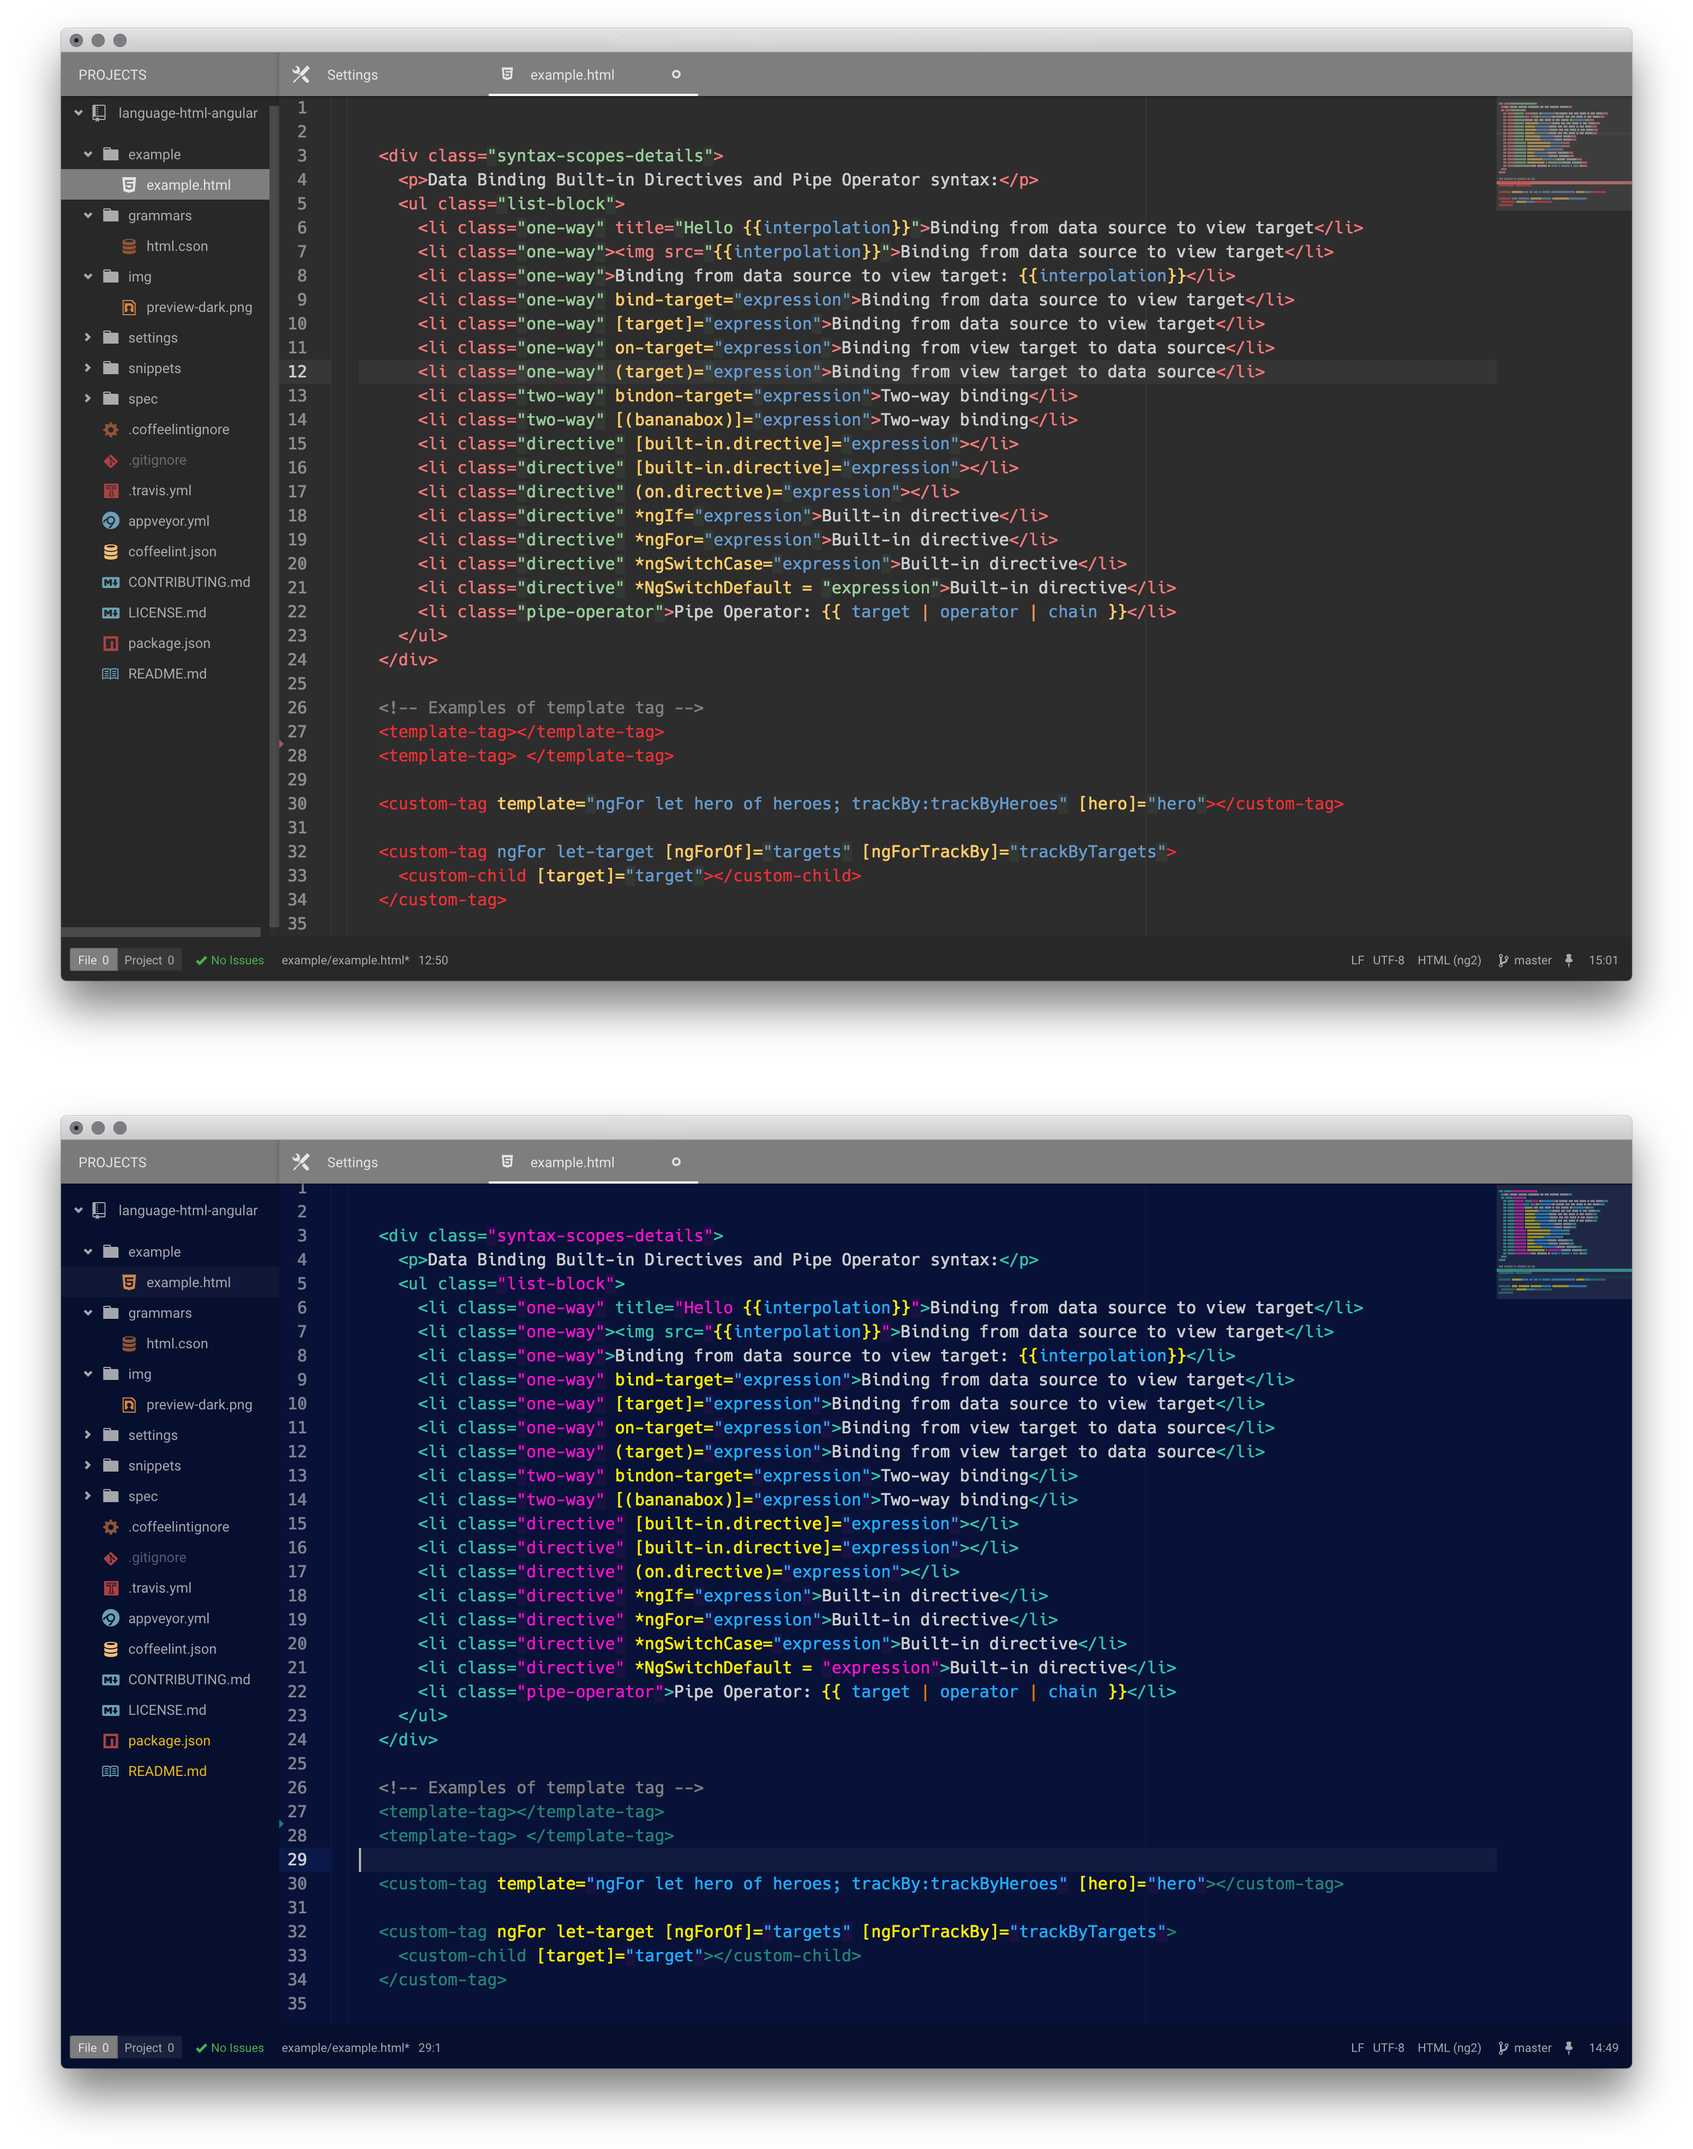
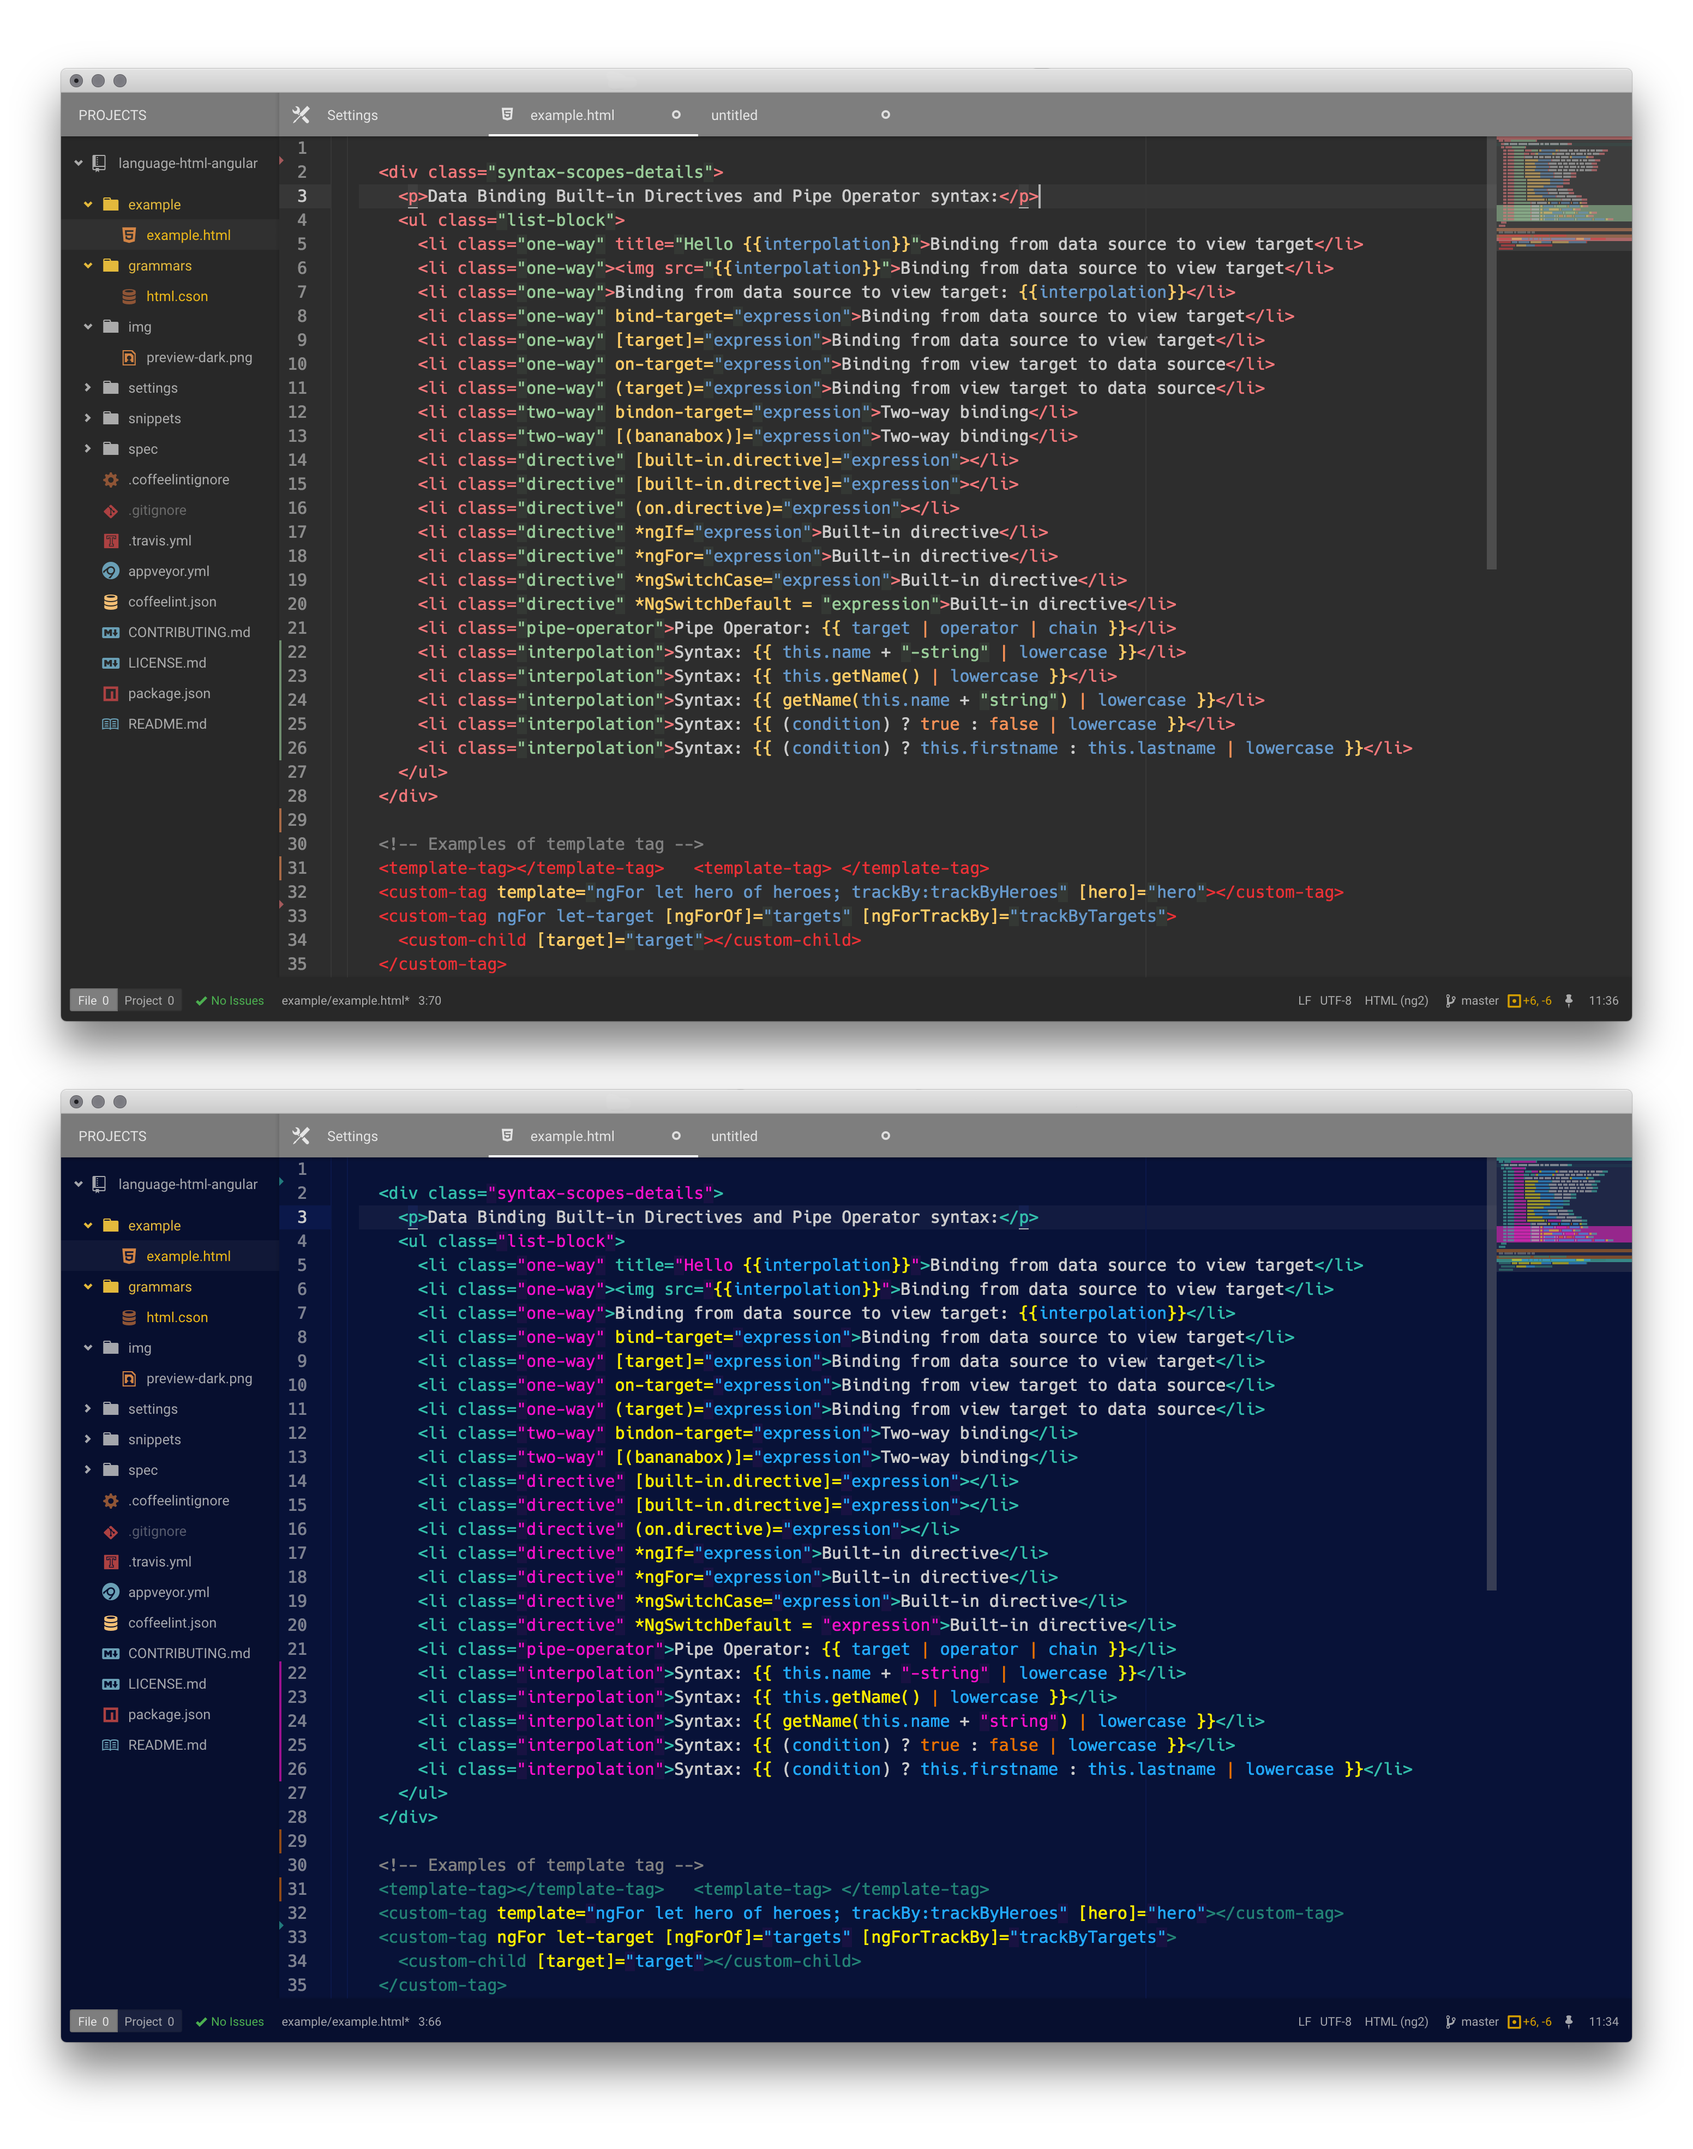
interpolation syntax highlighting added

Changed region(s): [[0.0312, 0.0, 0.9688, 0.999], [0.75, 0.3434, 0.7812, 0.3746]]

diff --git a/example/example.html b/example/example.html
@@ -1,5 +1,4 @@
 
-
   <div class="syntax-scopes-details">
     <p>Data Binding Built-in Directives and Pipe Operator syntax:</p>
     <ul class="list-block">
@@ -20,16 +19,17 @@
       <li class="directive" *ngSwitchCase="expression">Built-in directive</li>
       <li class="directive" *NgSwitchDefault = "expression">Built-in directive</li>
       <li class="pipe-operator">Pipe Operator: {{ target | operator | chain }}</li>
+      <li class="interpolation">Syntax: {{ this.name + "-string" | lowercase }}</li>
+      <li class="interpolation">Syntax: {{ this.getName() | lowercase }}</li>
+      <li class="interpolation">Syntax: {{ getName(this.name + "string") | lowercase }}</li>
+      <li class="interpolation">Syntax: {{ (condition) ? true : false | lowercase }}</li>
+      <li class="interpolation">Syntax: {{ (condition) ? this.firstname : this.lastname | lowercase }}</li>
     </ul>
   </div>
 
   <!-- Examples of template tag -->
-  <template-tag></template-tag>
-
-  <template-tag> </template-tag>
-
+  <template-tag></template-tag>   <template-tag> </template-tag>
   <custom-tag template="ngFor let hero of heroes; trackBy:trackByHeroes" [hero]="hero"></custom-tag>
-
   <custom-tag ngFor let-target [ngForOf]="targets" [ngForTrackBy]="trackByTargets">
     <custom-child [target]="target"></custom-child>
   </custom-tag>

diff --git a/README.md b/README.md
@@ -38,6 +38,7 @@ Ensure to use a theme packages supporting Angular 2 syntax highlighting for this
 - `*ngIf`, `*ngFor`, etc.
 - Pipe Operator: `{{target | operator | chain}}`
 - Template Tags: `<custom-tag></custom-tag>`
+- Interpolation syntax highlighting
 
 Here are the scopes used for styling the above attributes in a syntax theme:
 
@@ -119,6 +120,39 @@ Here are the scopes used for styling the above attributes in a syntax theme:
 
     .meta.tag.other.ng {
       color: darken(@green,15%) !important;
+    }
+
+    // Interpolation Syntax
+    .punctuation.definition.js.string.begin.ng.html {
+      color: @444444 !important;
+    }
+
+    .punctuation.definition.js.string.end.ng.html {
+      color: @444444 !important;
+    }
+
+    .string.operator.ng {
+      color: @syntax-text-color !important;
+    }
+
+    .string.bracket.ng {
+      color: @syntax-text-color !important;
+    }
+
+    .string.js.bool.ng {
+      color: @222222 !important;
+    }
+
+    .punctuation.definition.function.begin.ng {
+      color: @666666 !important;
+    }
+
+    .punctuation.definition.function.end.ng {
+      color: @666666 !important;
+    }
+
+    .meta.definition.function.ng {
+      color: @333333 !important;
     }
 
   }
